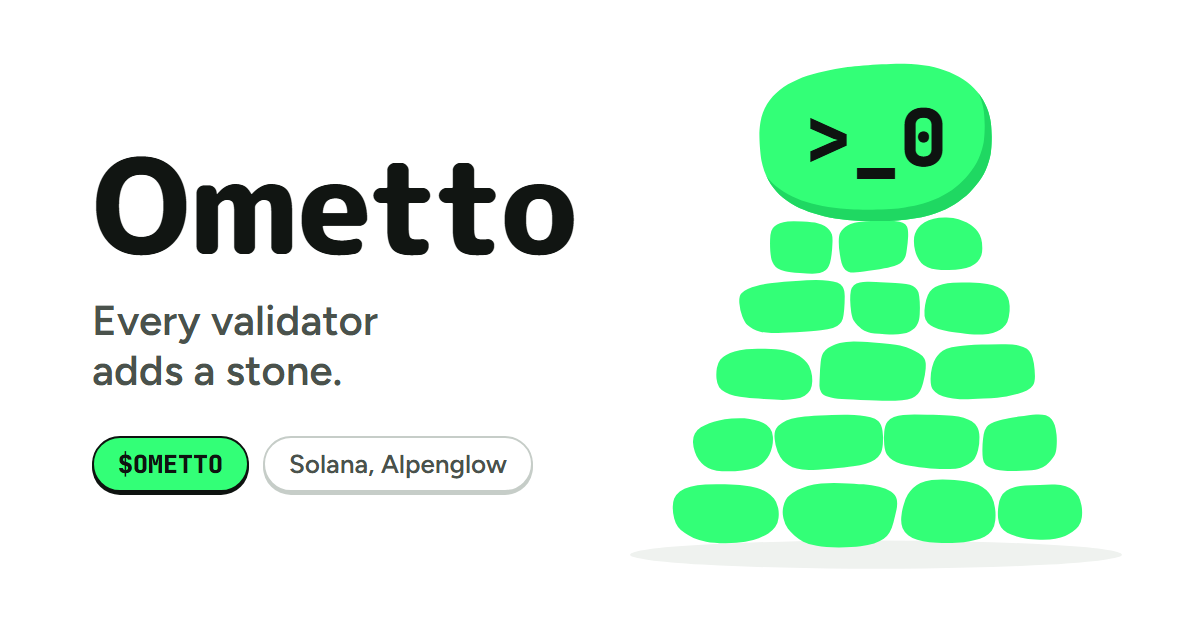
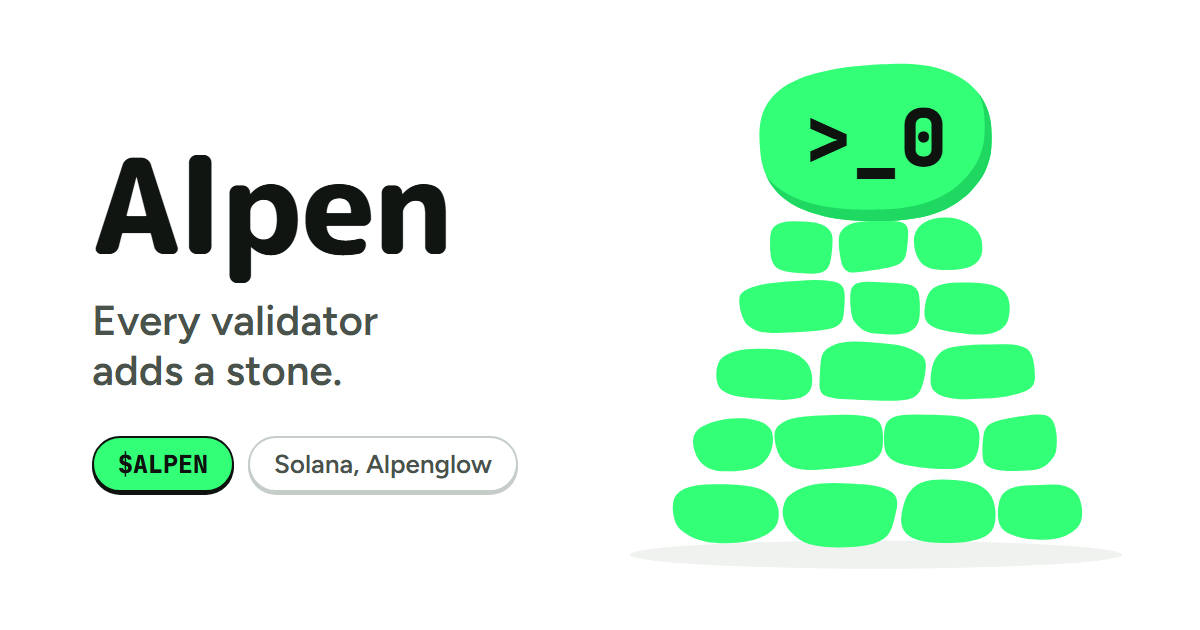
Rename the coin and the character to Alpen ($ALPEN)
Site title, header, voice, share tags, metadata and the social image now
say Alpen; the code-face stone and the cairn are unchanged.

Changed region(s): [[0.0617, 0.2413, 0.4933, 0.4524], [0.0925, 0.6937, 0.4625, 0.7841]]

diff --git a/site/index.html b/site/index.html
@@ -3,25 +3,25 @@
 <head>
 <meta charset="utf-8">
 <meta name="viewport" content="width=device-width, initial-scale=1">
-<title>Ometto</title>
+<title>Alpen</title>
 <meta name="description" content="A neon stone on a cairn of Solana validators, one pebble each, lit when they sign Alpenglow&#39;s genesis certificate. Check it in your browser.">
 <meta name="theme-color" content="#ffffff">
 <!-- Sharing. The image addresses are root-relative until the domain is known; set siteUrl in config.js
      and run node site-tools/set-domain.mjs to make them absolute (and add og:url). -->
 <meta property="og:type" content="website">
-<meta property="og:site_name" content="Ometto">
-<meta property="og:title" content="Ometto">
+<meta property="og:site_name" content="Alpen">
+<meta property="og:title" content="Alpen">
 <meta property="og:description" content="A neon stone on a cairn of Solana validators, one pebble each, lit when they sign Alpenglow&#39;s genesis certificate. Check it in your browser.">
 <meta property="og:image" content="/og.png">
 <meta property="og:image:type" content="image/png">
 <meta property="og:image:width" content="1200">
 <meta property="og:image:height" content="630">
-<meta property="og:image:alt" content="Ometto, a neon green stone with the face &gt;_0 typed on it, on a small cairn, beside the words: Every validator adds a stone.">
+<meta property="og:image:alt" content="Alpen, a neon green stone with the face &gt;_0 typed on it, on a small cairn, beside the words: Every validator adds a stone.">
 <meta name="twitter:card" content="summary_large_image">
-<meta name="twitter:title" content="Ometto">
+<meta name="twitter:title" content="Alpen">
 <meta name="twitter:description" content="A neon stone on a cairn of Solana validators, one pebble each, lit when they sign Alpenglow&#39;s genesis certificate.">
 <meta name="twitter:image" content="/og.png">
-<meta name="twitter:image:alt" content="Ometto, a neon green stone with the face &gt;_0 typed on it, on a small cairn, beside the words: Every validator adds a stone.">
+<meta name="twitter:image:alt" content="Alpen, a neon green stone with the face &gt;_0 typed on it, on a small cairn, beside the words: Every validator adds a stone.">
 <link rel="icon" href="favicon.svg" type="image/svg+xml">
 <link rel="apple-touch-icon" href="/token.png">
 <link rel="preconnect" href="https://fonts.googleapis.com">
@@ -33,13 +33,13 @@
 </head>
 <body>
 <header class="top">
-  <a class="brand" href="./" aria-label="Ometto, home">
+  <a class="brand" href="./" aria-label="Alpen, home">
     <svg class="brand-mark" viewBox="0 0 40 30" aria-hidden="true">
       <path class="bm-stone" d="M4.2 13.6C4.4 6.9 11 3.2 20.4 3.4 29.6 3.6 36 7.4 35.8 14.4 35.6 21.6 29.4 26.4 20 26.2 10.4 26 4 21 4.2 13.6Z"/>
       <path class="bm-shade" d="M35.8 14.4C35.6 21.6 29.4 26.4 20 26.2 10.4 26 4 21 4.2 13.6 5.4 19.4 11.6 23.2 20.2 23.3 28.4 23.4 34.2 19.8 35.8 14.4Z"/>
       <text class="bm-face" x="20" y="18.6" text-anchor="middle">&gt;_0</text>
     </svg>
-    <span id="brand-name">Ometto</span>
+    <span id="brand-name">Alpen</span>
     <span id="brand-ticker" class="ticker" hidden></span>
   </a>
   <div class="top-right">
@@ -61,7 +61,7 @@
 <main class="scene">
   <section class="voice">
     <div class="bubble" id="bubble">
-      <h1 class="say"><span id="say" aria-hidden="true">I&#39;m Ometto. Every validator adds a stone.</span><span id="say-live" class="sr-only" aria-live="polite">I&#39;m Ometto. Every validator adds a stone.</span></h1>
+      <h1 class="say"><span id="say" aria-hidden="true">I&#39;m Alpen. Every validator adds a stone.</span><span id="say-live" class="sr-only" aria-live="polite">I&#39;m Alpen. Every validator adds a stone.</span></h1>
     </div>
     <p class="sentence" id="sentence"></p>
   </section>
@@ -80,7 +80,7 @@
     <aside class="card" id="card" hidden aria-live="polite"></aside>
   </section>
 
-  <section class="land" id="land" aria-label="Ometto on his cairn">
+  <section class="land" id="land" aria-label="Alpen on his cairn">
     <span class="land-lab" id="land-lab" hidden></span>
     <button class="sun" id="sun" type="button" data-place="answer">
       <span class="disc"></span>
@@ -117,6 +117,6 @@
   <span>Read from Solana itself. Validator names are self-declared.</span>
   <a id="foot-cert" target="_blank" rel="noopener">Certificate account</a>
 </footer>
-<noscript><p class="noscript">Ometto needs JavaScript: he reads the chain and checks the signature in your browser.</p></noscript>
+<noscript><p class="noscript">Alpen needs JavaScript: he reads the chain and checks the signature in your browser.</p></noscript>
 </body>
 </html>

diff --git a/site/ometto.js b/site/ometto.js
@@ -206,7 +206,7 @@ export function omettoMarkup({ pal = null, glow = false, face = "o_o", z = false
       `<text class="z z1" x="${f1(OM.cx + OM.rx * 0.86)}" y="${f1(OM.cy - OM.ry * 0.62)}"${pal ? ` font-size="15"` : ""}>z</text>` +
       `<text class="z z2" x="${f1(OM.cx + OM.rx * 0.86 + 12)}" y="${f1(OM.cy - OM.ry * 0.62 - 15)}"${pal ? ` font-size="11"` : ""}>z</text></g>`
     : "";
-  const btn = interactive ? ` role="button" tabindex="0" aria-label="Ometto, the top stone"` : "";
+  const btn = interactive ? ` role="button" tabindex="0" aria-label="Alpen, the top stone"` : "";
   return `<g class="om"${btn}><g class="om-tilt"><g class="om-hop"><g class="om-bob">` + halo +
     `<clipPath id="om-clip"><path d="${d}"/></clipPath>` +
     `<path${A("om-stone", pal?.neon)} d="${d}"/>` +
@@ -279,7 +279,7 @@ export class Ometto {
     root.classList.toggle("few", shape.mode === "few");
     root.classList.toggle("many", shape.mode === "many");
     root.style.setProperty("--ar", `${V.w} / ${V.h}`);
-    root.innerHTML = `<svg class="fig-svg" viewBox="0 0 ${V.w} ${V.h}" role="group" aria-label="Ometto on his cairn. One pebble per validator, biggest stake at the top">` +
+    root.innerHTML = `<svg class="fig-svg" viewBox="0 0 ${V.w} ${V.h}" role="group" aria-label="Alpen on his cairn. One pebble per validator, biggest stake at the top">` +
       cairnMarkup(shape, { interactive: true }) + omettoMarkup({ face: this.shown, interactive: true }) + `</svg>` +
       `<div class="marks" aria-hidden="true"><span class="tag" hidden></span></div>`;
     this.svg = root.firstElementChild;

diff --git a/site/app.js b/site/app.js
@@ -26,7 +26,7 @@ const WAKE = 82; // percent of the stake at which he wakes
 const slotFromClock = () => 458877441 + (Date.now() - Date.parse("2026-10-19T15:07:31Z")) / MAINNET.pace;
 const reduceMotion = matchMedia("(prefers-reduced-motion: reduce)").matches;
 const phone = () => matchMedia("(max-width: 900px)").matches;
-const INTRO = "I'm Ometto. Every validator adds a stone.";
+const INTRO = "I'm Alpen. Every validator adds a stone.";
 
 // ---------- small helpers ----------
 const esc = (s) => String(s).replace(/[&<>"']/g, (c) => ({ "&": "&amp;", "<": "&lt;", ">": "&gt;", '"': "&quot;", "'": "&#39;" })[c]);
@@ -602,7 +602,7 @@ function panelHtml(name) {
     return out;
   }
   if (name === "about") {
-    return `<p>On Italian mountains, climbers call a pile of stones on a trail or a summit an <b>ometto</b>, a little man. Everyone who passes adds a stone.</p>
+    return `<p>I'm Alpen. On mountains, people who pass a cairn on a trail or a summit add one stone to it.</p>
       <p>Here the passers are Solana's validators, on the morning Alpenglow starts. Alpenglow is the new way Solana agrees on blocks, named after the glow on summits just before sunrise. At the switch, the validators sign one certificate together.</p>
       <p>Each of them is one stone in the cairn under me, the biggest stake at the top. Lit, it signed. Dark, it did not. I am the stone on top. When ${WAKE}% of the stake has signed, I wake.</p>
       <p>Do not take my word for it. The certificate is on chain, and the check runs in your browser.</p>`;

diff --git a/site/config.js b/site/config.js
@@ -1,8 +1,8 @@
 // What the page and /api/cert need to know about the coin. mint, programId and buyUrl stay null until launch;
 // the page hides name, ticker, contract address and buy link while they are null.
 export const CONFIG = {
-  name: "Ometto",
-  ticker: "OMETTO",      // shown with a $
+  name: "Alpen",
+  ticker: "ALPEN",      // shown with a $
   mint: null,            // the coin's mint address on mainnet
   programId: null,       // the Chamada program on mainnet (record PDA ["chamada", mint])
   network: "mainnet-beta",
